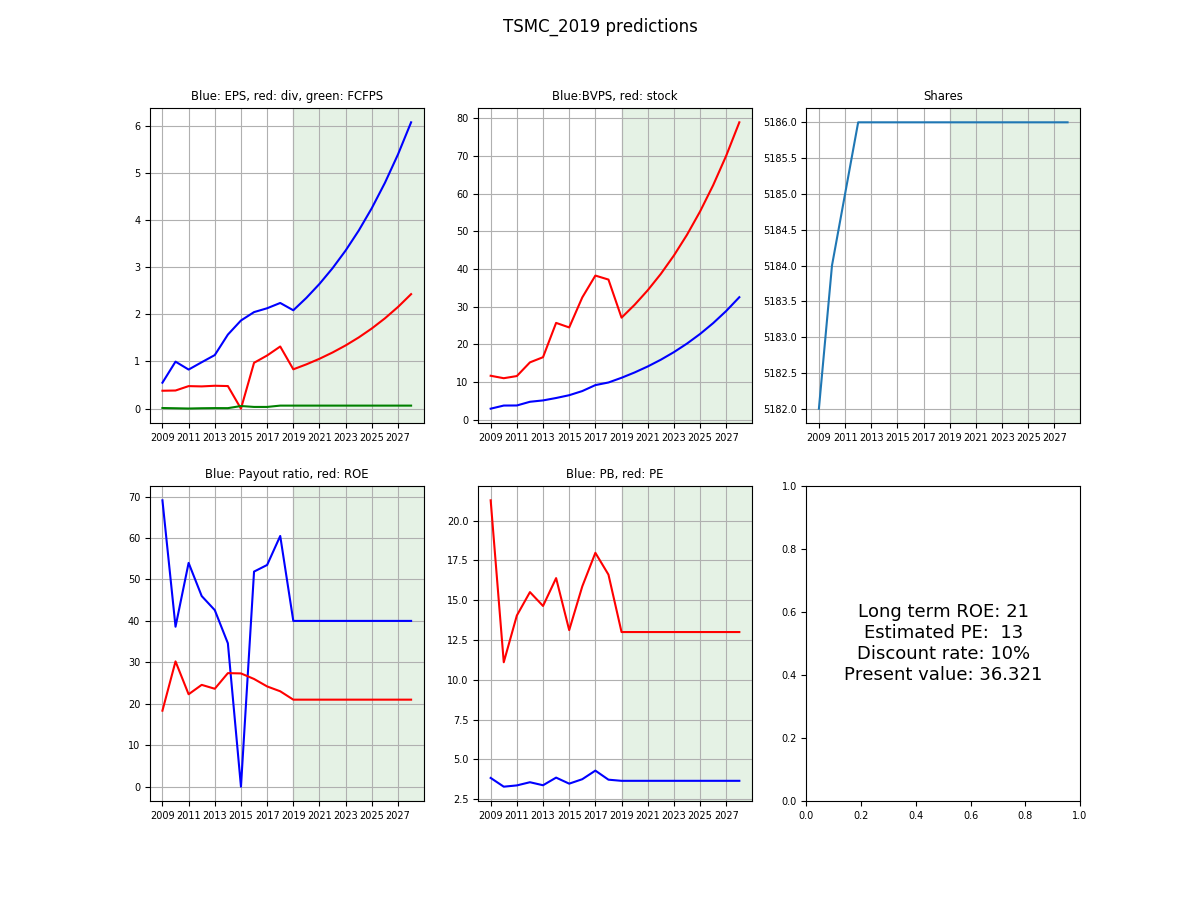
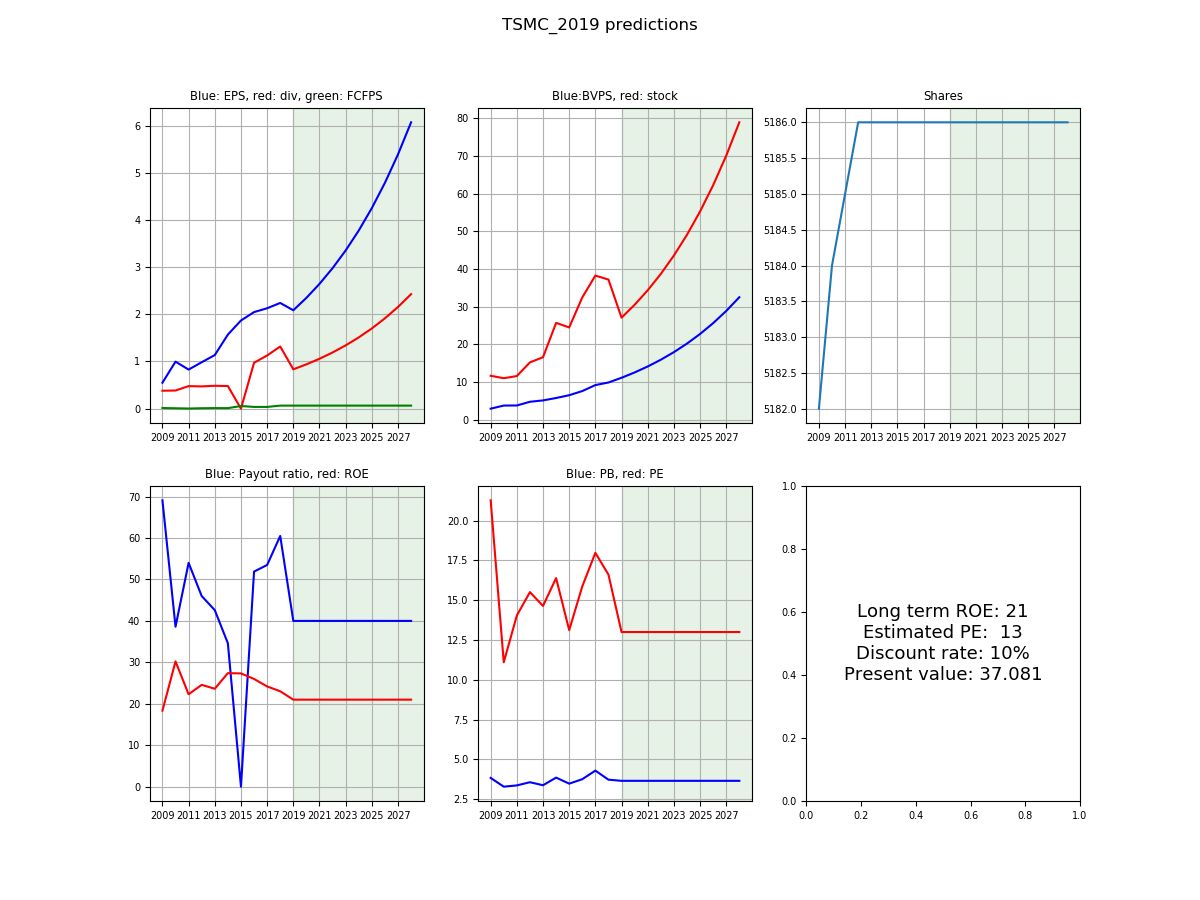
updated tsmc tax rate

diff --git a/stock_screener.py b/stock_screener.py
@@ -8,14 +8,14 @@ import main_functions_wrapper as main
 '''
 =========Key in parameters here==========
 '''
-estimated_roe = 13
-estimated_pe = 5
-estimated_payout_ratio = 25
-dcf_rate = 15
-div_taxrate = 0
-currentprice = 0.5
+estimated_roe = 21
+estimated_pe = 13
+estimated_payout_ratio = 40
+dcf_rate = 10
+div_taxrate = 21
+currentprice = 55
 years2project = 10
-sampletitle = 'TATSENG_2019'
+sampletitle = 'TSMC_2019'
 filename = sampletitle+'_condensed.csv'
 directory = 'sample_data/'
 '''
